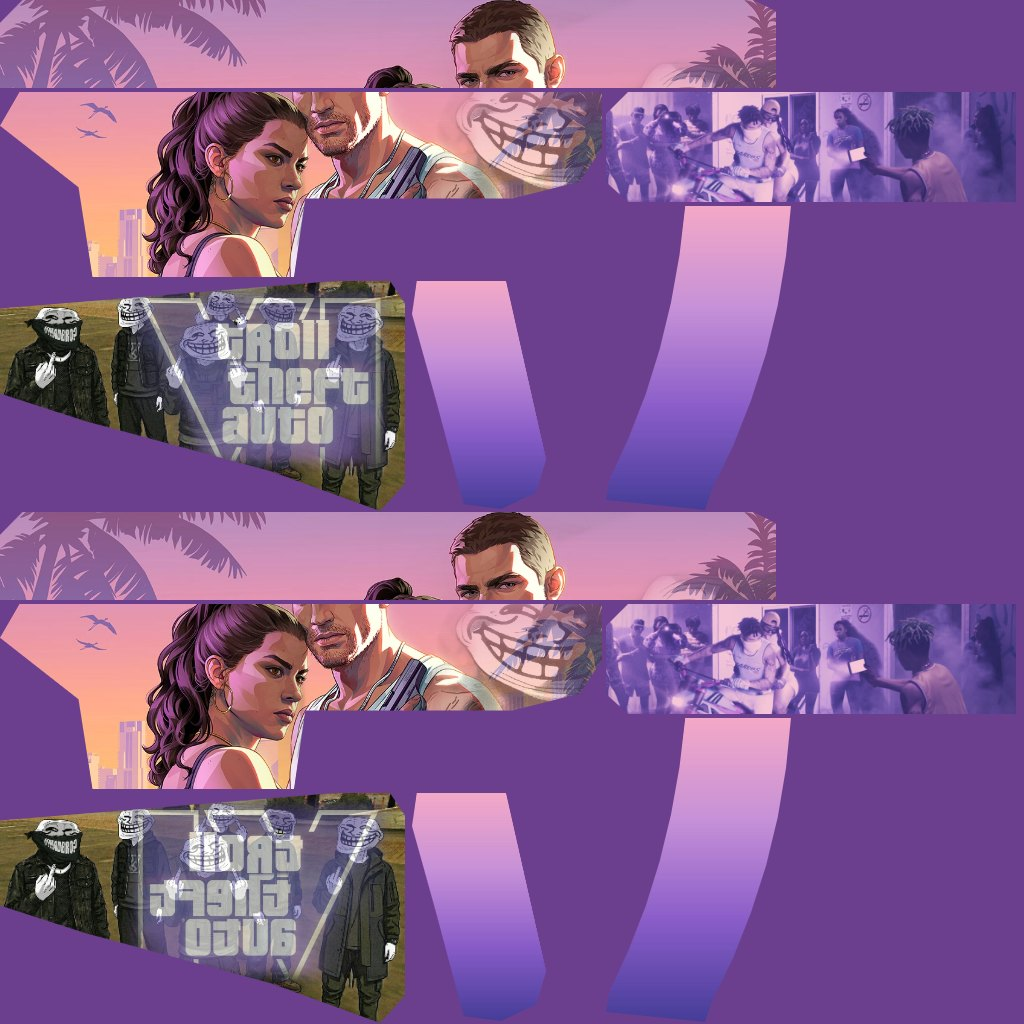
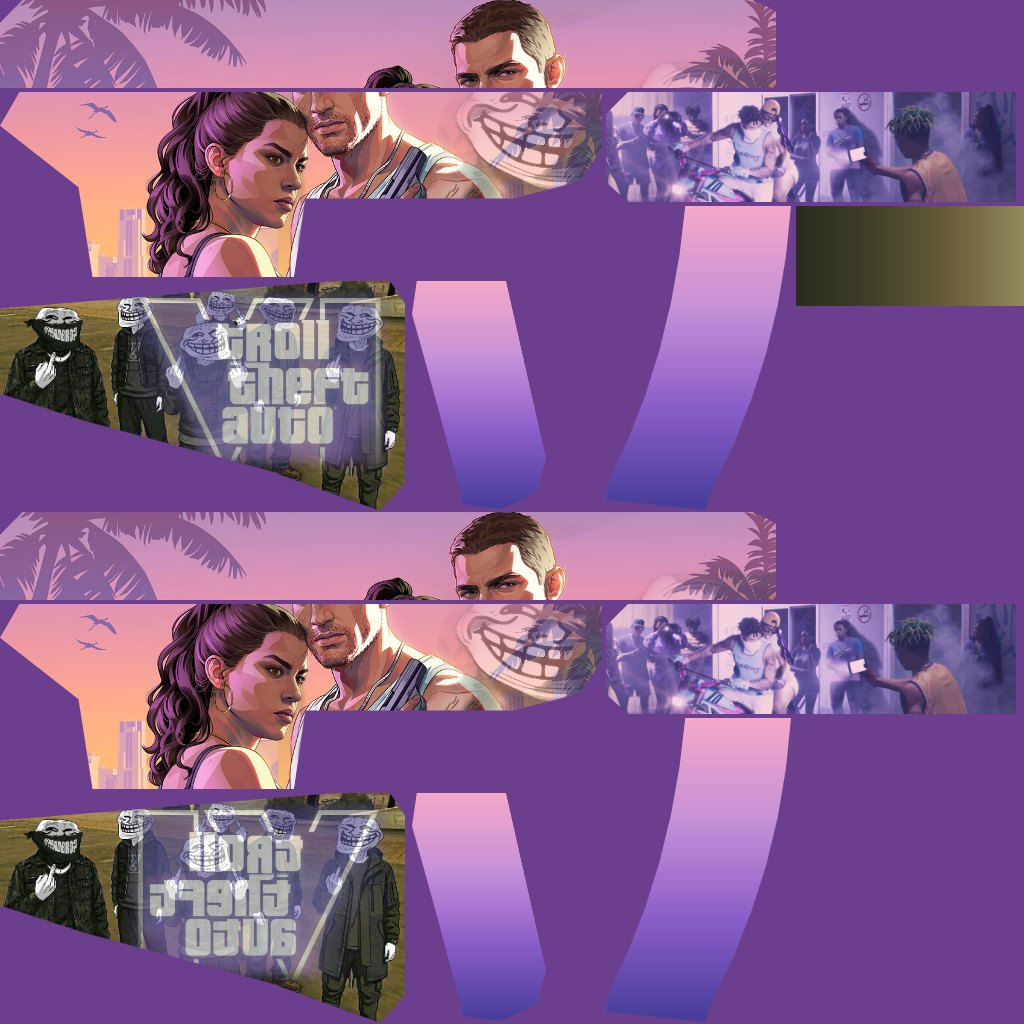
Vice Grin: stock edge gradient from the crew art, 60/40 handguard grade
- New per-part edge strip: SKIN_ATLAS.regions.stockEdge. The stock's top,
  bottom and front faces read it (weapon-416.js) instead of the shared
  trim swatch; a skin fills it from `edges.stock` (troll-skin-draw.js),
  otherwise it stays trim, so every other skin looks the same.
  palette.butt colours the butt pad.
- Vice Grin: stock edges fade dark olive -> khaki -> sand (colours taken
  from the San Andreas troll crew picture), butt pad sand; handguard grade
  now 60% sunset / 40% original colour.

Changed region(s): [[0.75, 0.0938, 1.0, 0.3125], [0.875, 0.5938, 0.9375, 0.7188]]

diff --git a/assets/games/troll-ops/skins.js b/assets/games/troll-ops/skins.js
@@ -32,6 +32,10 @@ export const SKIN_ATLAS = {
     stock:     { x: 0,   y: 281, w: 405, h: 230 },
     grip:      { x: 412, y: 281, w: 134, h: 228 },
     mag:       { x: 606, y: 206, w: 185, h: 304 },
+    // A part's own edge strip (top, bottom, front, back faces), laid along
+    // the part. Only the stock has one; a skin fills it from `edges.stock`,
+    // otherwise it stays trim like every other edge.
+    stockEdge: { x: 796, y: 206, w: 228, h: 100 },
   },
 };
 
@@ -274,8 +278,9 @@ export const SKINS = [
     id: "vice", name: "Vice Grin", banner: "banner-17.jpg",
     blurb: "Leonida sunset, fully loaded.",
     final: true,
-    palette: { trim: "#6c3f8e", ink: "#fff4e8", metal: 0x2b2233, accent: 0xff8fb8 },
-    art: { grip: "vice-gradient.jpg", mag: "vice-gradient.jpg", stock: "troll-crew-san-andreas.jpg", handguard: "gta6-troll-skin-part-vice80.jpg" },
+    palette: { trim: "#6c3f8e", ink: "#fff4e8", metal: 0x2b2233, accent: 0xff8fb8, butt: 0x92885f },
+    edges: { stock: "vice-stock-edge.jpg" },
+    art: { grip: "vice-gradient.jpg", mag: "vice-gradient.jpg", stock: "troll-crew-san-andreas.jpg", handguard: "gta6-troll-skin-part-vice60.jpg" },
     layers: { receiver: [{ file: "banners/banner-11.jpg", src: [0.345, 0, 1, 1], at: [0.923, 0.587, 0.875], feather: 0.65, opacity: 0.65, id: "rkn0gy", mask: "vice-rkn0gy-mujaulpy.png", lock: 1 }], stock: [{ id: "8osvw2", file: "skin-art/vice-robbery-troll.jpg", src: [0.044, 0.05, 0.376, 0.486], at: [0.64, 0.42, 0.676], text: 1, feather: 0.15, opacity: 0.65, lock: 1, mask: "vice-8osvw2-mukhm6ar.png" }] },
     crops: {
       receiver: [0.5, 0.344, 1],

diff --git a/assets/games/troll-ops/weapon-416.js b/assets/games/troll-ops/weapon-416.js
@@ -93,7 +93,8 @@ function panelGeometry(key) {
   geo.translate(width / 2 - BEVEL, 0, 0);
   const b = panelBounds(key);
   const side = SKIN_ATLAS.regions[key];
-  const trim = SKIN_ATLAS.regions.trim;
+  // Edges read the part's own strip if it has one (see SKIN_ATLAS), else trim.
+  const trim = SKIN_ATLAS.regions[key + "Edge"] || SKIN_ATLAS.regions.trim;
   const pos = geo.attributes.position, nrm = geo.attributes.normal, uv = geo.attributes.uv;
   const W = SKIN_ATLAS.width, H = SKIN_ATLAS.height;
   const toUv = (r, s, t, dy = 0) => [
@@ -206,8 +207,12 @@ export function build416(def, skinId, { texture = null } = {}) {
   group.add(trigger);
   // No fire-selector stud: it sat on the lower receiver as a coloured dot
   // on top of the skin art.
-  // Butt pad, in the accent colour.
-  const butt = box(0.047, 0.09, 0.008, M.accent);
+  // Butt pad, in the accent colour (or the skin's own butt colour, so a
+  // stock edge gradient can run straight into it).
+  const buttM = skin?.palette?.butt != null
+    ? new THREE.MeshStandardMaterial({ color: skin.palette.butt, roughness: 0.5, metalness: 0.2 })
+    : M.accent;
+  const butt = box(0.047, 0.09, 0.008, buttM);
   butt.position.set(0, -0.015, 0.262);
   group.add(butt);
 

diff --git a/tools/troll-skin-draw.js b/tools/troll-skin-draw.js
@@ -27,6 +27,10 @@
 //   text     1: the piece has writing, so it is flipped in place on the
 //            gun's right side and reads correctly there too
 //   lock     1: the editor won't move it
+//
+// Edge strips: skin.edges = { stock: "file.jpg" } paints the stock's top,
+// bottom and front faces with that picture, stretched along the stock
+// (left = the front, by the receiver). palette.butt colours the butt pad.
 // A layer is placed the same along the gun on both sides, like the rest.
 //
 // A part can take its art from its own picture instead of the banner:
@@ -553,6 +557,12 @@ export async function bakeAtlas(skin, canvas) {
     ctx.restore();
   }
   trimOutlines(ctx, skin, 0);
+  // Edge strips (the edges read the top half only).
+  for (const [key, file] of Object.entries(skin.edges || {})) {
+    const r = R[key + "Edge"];
+    if (!r || !file) continue;
+    ctx.drawImage(await artImage(file), r.x, r.y, r.w, r.h);
+  }
 
   // --- right side (bottom half): the same art, placed the same along the
   // gun (the model mirrors it), with the writing turned back so it reads
